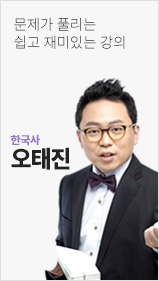
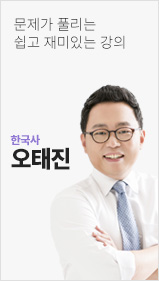
해양경찰, 해양경찰 특채 메인 수정

diff --git a/views/willbes/pc/site/main_2001_3007.blade.php b/views/willbes/pc/site/main_2001_3007.blade.php
@@ -15,7 +15,7 @@
                 </div>
                 <ul>
                     <li><a href="{{ site_url('/lecture/show/cate/3007/pattern/only/prod-code/132260') }}"><img src="{{ img_url('cop_sea/banner/bnr_360_01.jpg') }}" title="원유철 한국사 기본이론"></a></li>
-                    <li><a href="{{ site_url('/lecture/show/cate/3008/pattern/only/prod-code/151931') }}"><img src="{{ img_url('cop_sea/banner/bnr_360_02.jpg') }}" title="오태진 한국사 기본이론"></a></li>
+                    <li><a href="{{ site_url('/lecture/show/cate/3007/pattern/only/prod-code/132262') }}"><img src="{{ img_url('cop_sea/banner/bnr_360_02.jpg') }}" title="오태진 한국사 기본이론"></a></li>
                 </ul>
             </div>
         </div>

diff --git a/views/willbes/pc/site/main_2001_3008.blade.php b/views/willbes/pc/site/main_2001_3008.blade.php
@@ -10,7 +10,7 @@
             <div class="widthAuto bnrSec01">
                 <ul>
                     <li><a href="{{ site_url('/promotion/index/cate/3007/code/1037') }}"><img src="{{ img_url('cop_sea_special/banner/bnr_556_01.jpg') }}" title="해양경찰 특채PASS"></a></li>
-                    <li><a href="{{ site_url('/promotion/index/cate/3008/code/1038') }}"><img src="{{ img_url('cop_sea_special/banner/bnr_556_02.jpg') }}" title="KCG 핵심요약"></a></li>
+                    <li><a href="{{ site_url('/promotion/index/cate/3001/code/1035') }}"><img src="{{ img_url('cop_sea_special/banner/bnr_556_02.jpg') }}" title="KCG 핵심요약"></a></li>
                 </ul>
             </div>
         </div>
